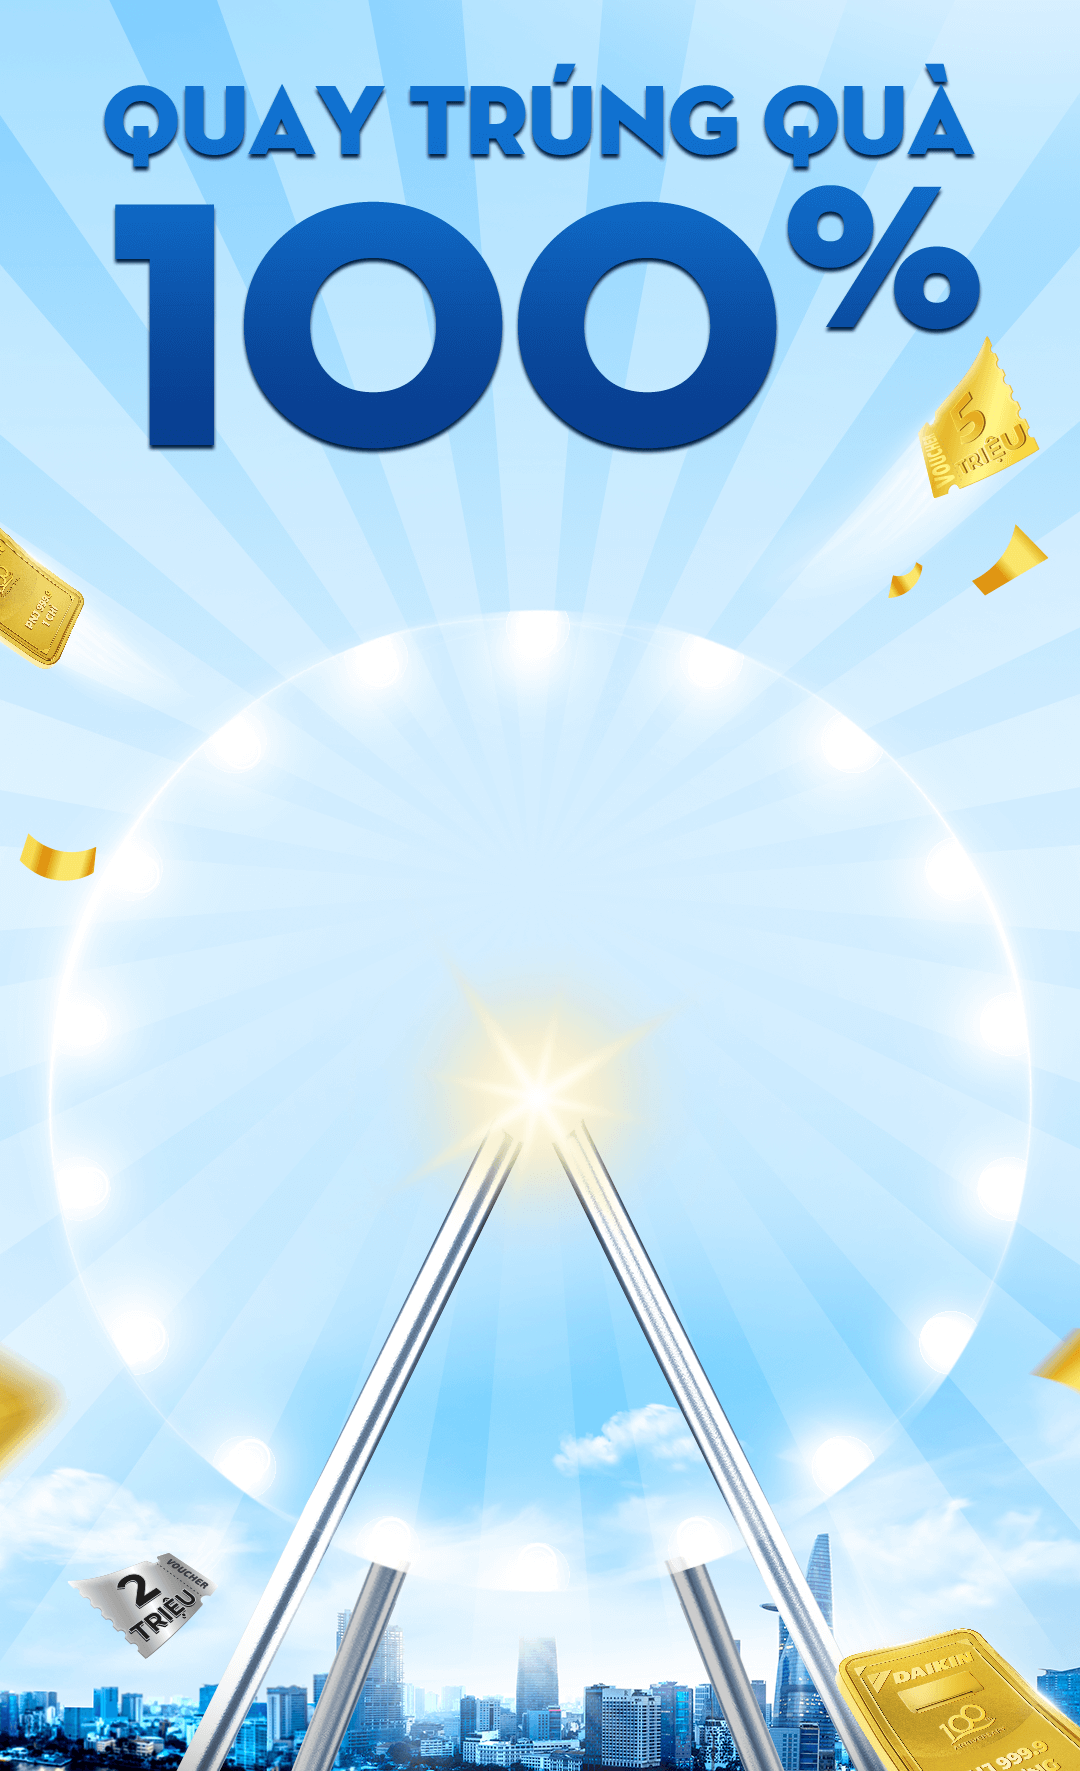
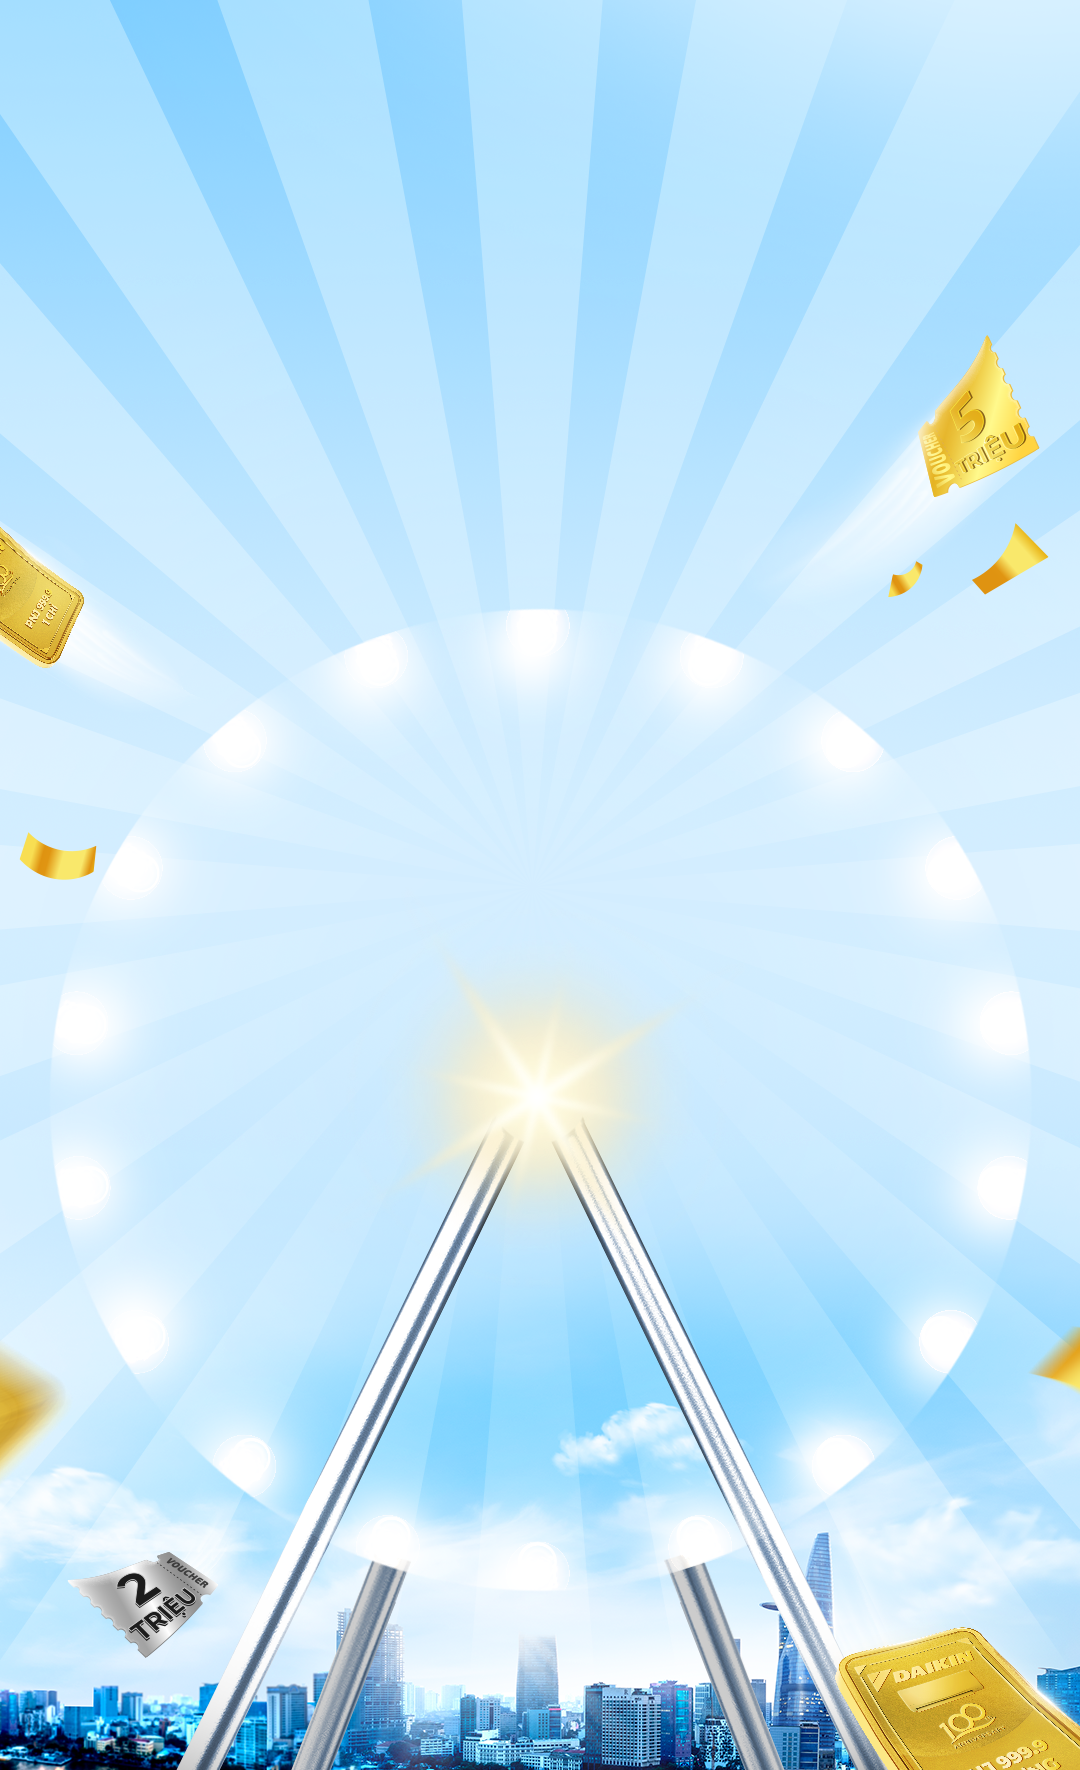
update tagline

diff --git a/scripts/main.js b/scripts/main.js
@@ -149,20 +149,20 @@ App.Site = function () {
       ;
   }
   var fancybox = function () {
-    $("#md-wheel-1").fancybox().trigger('click');
-    $("#md-wheel-2").fancybox().trigger('click');
-    $("#md-wheel-3").fancybox().trigger('click');
-    $("#md-wheel-4").fancybox().trigger('click');
-    $("#md-wheel-5").fancybox().trigger('click');
-    $("#md-wheel-6").fancybox().trigger('click');
-    $("#md-wheel-7").fancybox().trigger('click');
-    $("#md-wheel-8").fancybox().trigger('click');
-    $("#md-wheel-9").fancybox().trigger('click');
-    $("#md-wheel-10").fancybox().trigger('click');
-    $("#md-wheel-11").fancybox().trigger('click');
-    $("#md-wheel-12").fancybox().trigger('click');
-    $("#md-wheel-13").fancybox().trigger('click');
-    $("#md-wheel-14").fancybox().trigger('click');
+    // $("#md-wheel-1").fancybox().trigger('click');
+    // $("#md-wheel-2").fancybox().trigger('click');
+    // $("#md-wheel-3").fancybox().trigger('click');
+    // $("#md-wheel-4").fancybox().trigger('click');
+    // $("#md-wheel-5").fancybox().trigger('click');
+    // $("#md-wheel-6").fancybox().trigger('click');
+    // $("#md-wheel-7").fancybox().trigger('click');
+    // $("#md-wheel-8").fancybox().trigger('click');
+    // $("#md-wheel-9").fancybox().trigger('click');
+    // $("#md-wheel-10").fancybox().trigger('click');
+    // $("#md-wheel-11").fancybox().trigger('click');
+    // $("#md-wheel-12").fancybox().trigger('click');
+    // $("#md-wheel-13").fancybox().trigger('click');
+    // $("#md-wheel-14").fancybox().trigger('click');
   }
 
 

diff --git a/vong-quay-02.html b/vong-quay-02.html
@@ -44,6 +44,7 @@
     </header>
     <div class="page-main page-vongquay">
         <img src="./images/bg-wheel.png" alt="" class="bg-banner">
+        <img src="./images/tagline-1.png" alt="" class="md-tagline wow fadeInUp" data-wow-delay="0.3s" data-wow-duration="0.5">
         <p class="md-text">Bạn có <span>1</span> lượt quay</p>
         <img src="./images/img-wheel-3.png" alt="" class="img-wheel">
         <img src="./images/img-wheel-4.png" alt="" class="img-wheel-4">

diff --git a/vong-quay.html b/vong-quay.html
@@ -44,6 +44,7 @@
     </header>
     <div class="page-main page-vongquay">
         <img src="./images/bg-wheel.png" alt="" class="bg-banner">
+        <img src="./images/tagline-1.png" alt="" class="md-tagline wow fadeInUp" data-wow-delay="0.3s" data-wow-duration="0.5">
         <p class="md-text">Bạn có <span>1</span> lượt quay</p>
         <img src="./images/img-wheel.png" alt="" class="img-wheel">
         <img src="./images/img-wheel-4.png" alt="" class="img-wheel-4">

diff --git a/css/style.css b/css/style.css
@@ -563,6 +563,12 @@ p.error-2{
     width: 92%;
     animation: wheel-4 infinite 1s;
 }
+.page-vongquay .md-tagline{
+  position: absolute;
+  width: 82%;
+  top: 2%;
+  left: 9%;
+}
 @keyframes wheel-4{0%,25%,to{opacity:1}12.5%,37.5%{opacity:0},50%{opacity: 1}}
 .page-vongquay .img-wheel-2{
   position: absolute;
